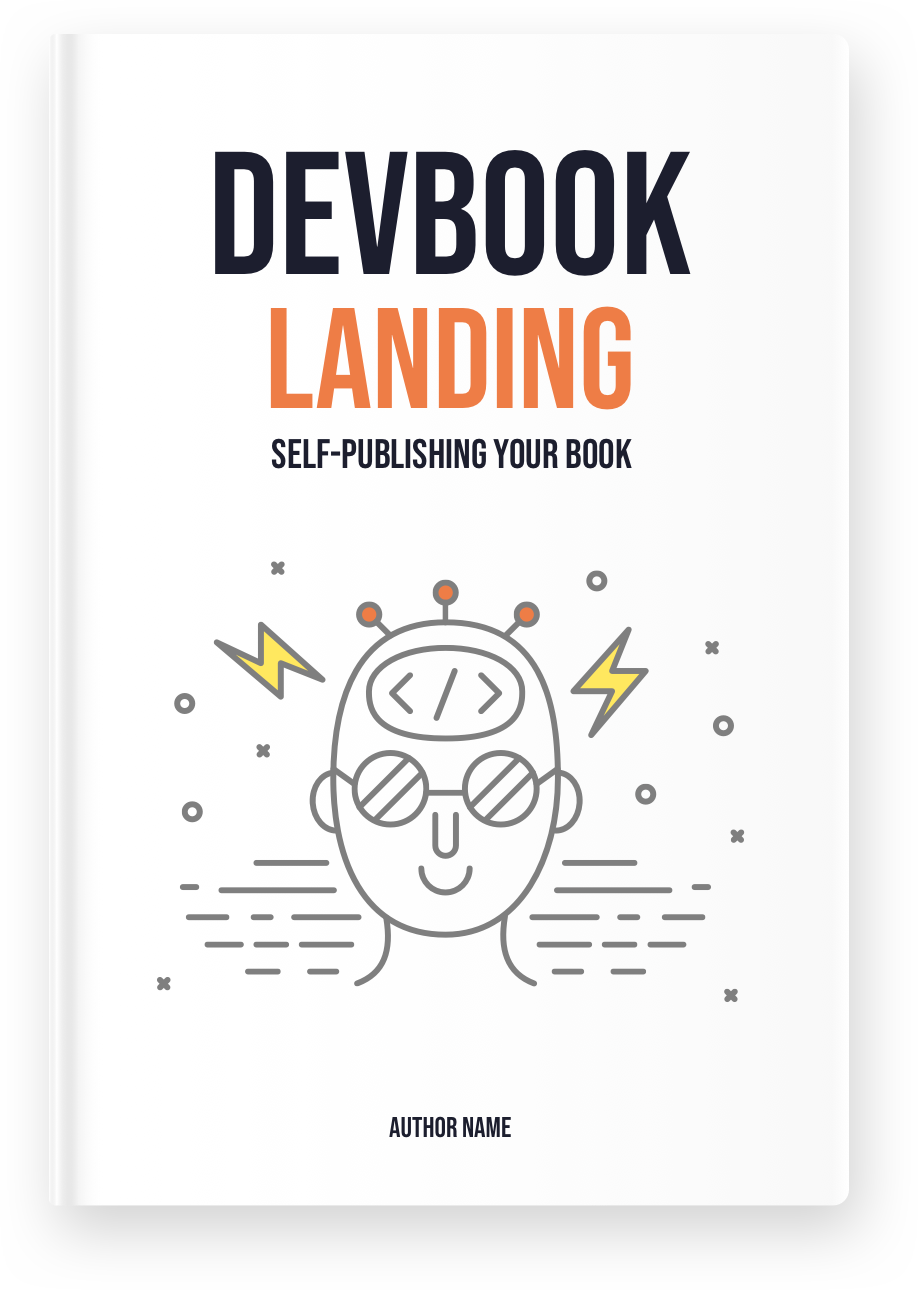
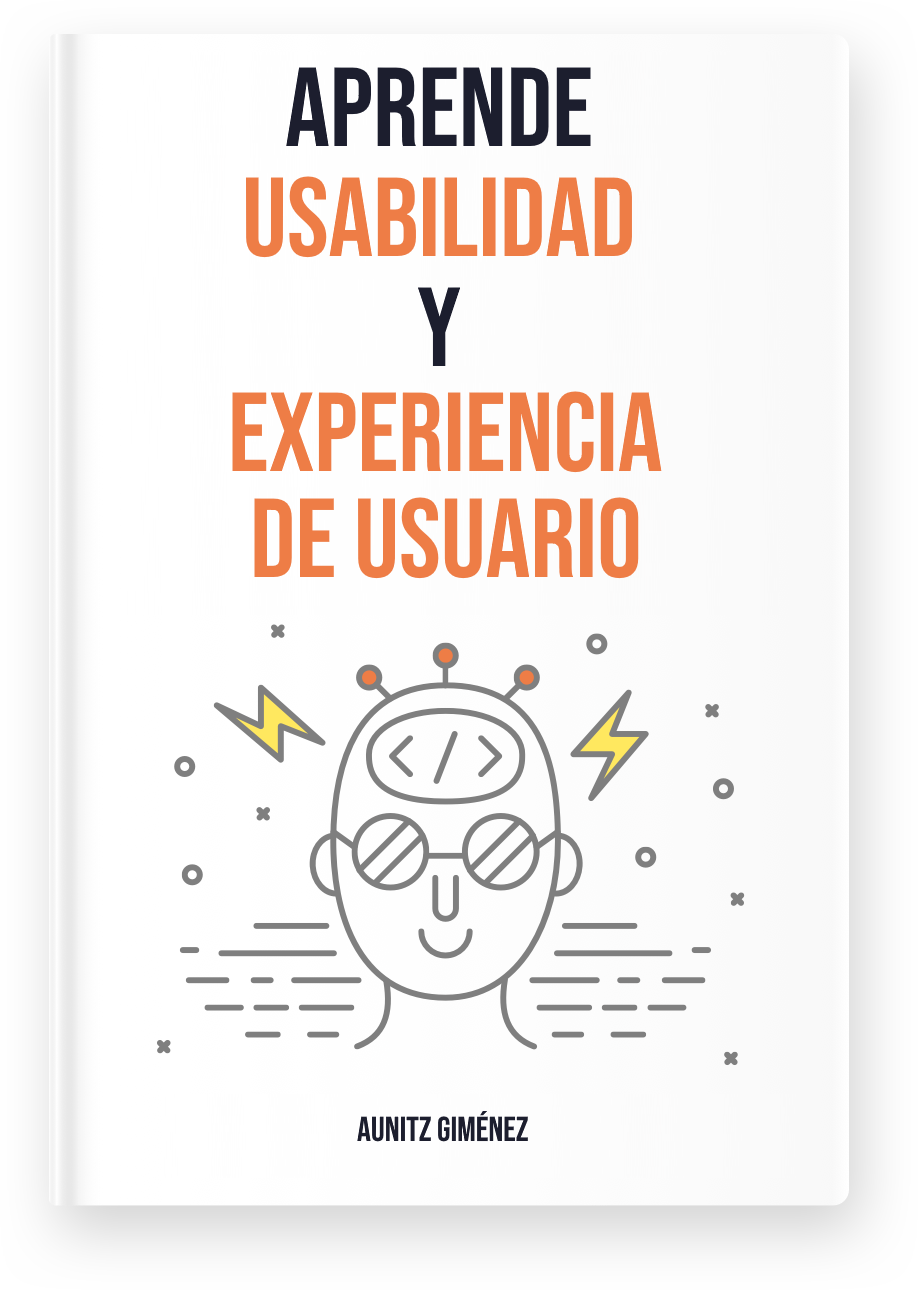
Contenidos reales de la web (primera parte)

diff --git a/index.html b/index.html
@@ -1,58 +1,57 @@
 <!DOCTYPE html>
-<html lang="en"> 
+<html lang="en">
 <head>
     <title>DevBook - Bootstrap 4 Book/eBook Landing Page Template For Developers</title>
-    
+
     <!-- Meta -->
     <meta charset="utf-8">
     <meta http-equiv="X-UA-Compatible" content="IE=edge">
     <meta name="viewport" content="width=device-width, initial-scale=1.0">
     <meta name="description" content="Bootstrap 4 Book/eBook Landing Page Template For Developers">
-    <meta name="author" content="Xiaoying Riley at 3rd Wave Media">    
-    <link rel="shortcut icon" href="favicon.ico"> 
-    
+    <meta name="author" content="Xiaoying Riley at 3rd Wave Media">
+    <link rel="shortcut icon" href="favicon.ico">
+
     <!-- Google Font -->
     <link href="https://fonts.googleapis.com/css?family=Quicksand:700|Roboto:400,400i,700&display=swap" rel="stylesheet">
-    
+
     <!-- FontAwesome JS-->
     <script defer src="assets/fontawesome/js/all.min.js"></script>
 
-    <!-- Theme CSS -->  
+    <!-- Theme CSS -->
     <link id="theme-style" rel="stylesheet" href="assets/css/theme.css">
 
-</head> 
+</head>
 
-<body>    
-    <header class="header">	    
+<body>
+    <header class="header">
         <div class="branding">
             <div class="container-fluid position-relative py-3">
                 <div class="logo-wrapper">
-	                <div class="site-logo"><a class="navbar-brand" href="index.html"><img class="logo-icon mr-2" src="assets/images/site-logo.svg" alt="logo" ><span class="logo-text">DevBook</span></a></div>    
+	                <div class="site-logo"><a class="navbar-brand" href="index.html"><img class="logo-icon mr-2" src="assets/images/site-logo.svg" alt="logo" ><span class="logo-text">DesarrolloWeb</span></a></div>
                 </div><!--//docs-logo-wrapper-->
-	        
+
             </div><!--//container-->
         </div><!--//branding-->
     </header><!--//header-->
-    
+
     <section class="hero-section">
 	    <div class="container">
 		    <div class="row">
 			    <div class="col-12 col-md-7 pt-5 mb-5 align-self-center">
 				    <div class="promo pr-md-3 pr-lg-5">
 					    <h1 class="headline mb-3">
-						    Free Book &amp; eBook <br>Landing Page Template   
+						    Aprende usabilidad y experiencia de usuario
 					    </h1><!--//headline-->
 					    <div class="subheadline mb-4">
-						    A free Bootstrap 4 template for developers and programmers who want to self-publish books. Download now and start selling your book right away!
-						    
+							Un libro eminentemente práctico para aprender los principios más importantes de la usabilidad y la experiencia de usuario.
 					    </div><!--//subheading-->
-					    
+
 					    <div class="cta-holder">
-						    <a class="btn btn-primary mr-lg-2" href="https://themes.3rdwavemedia.com/bootstrap-templates/startup/devbook-free-bootstrap-4-book-ebook-landing-page-template-for-developers/">Buy for $20</a>
-						    <a class="btn btn-secondary scrollto" href="#benefits-section">Learn More</a>
-						    
+						    <a class="btn btn-primary mr-lg-2" href="https://themes.3rdwavemedia.com/bootstrap-templates/startup/devbook-free-bootstrap-4-book-ebook-landing-page-template-for-developers/">Comprar por 15 €</a>
+						    <a class="btn btn-secondary scrollto" href="#benefits-section">Más información</a>
+
 					    </div><!--//cta-holder-->
-					    
+
 					    <div class="hero-quotes mt-5">
 						    <div id="quotes-carousel" class="quotes-carousel carousel slide carousel-fade mb-5" data-ride="carousel" data-interval="8000">
 								<ol class="carousel-indicators">
@@ -60,11 +59,11 @@
 									<li data-target="#quotes-carousel" data-slide-to="1"></li>
 									<li data-target="#quotes-carousel" data-slide-to="2"></li>
 								</ol>
-							  
+
 							    <div class="carousel-inner">
 								    <div class="carousel-item active">
 								        <blockquote class="quote p-4 theme-bg-light">
-									        "Excellent Book! Add your book reviews here consectetur adipiscing elit. Aliquam euismod nunc porta urna facilisis tempor. Praesent mauris neque, viverra quis erat vitae, auctor imperdiet nisi."     
+									        "Excellent Book! Add your book reviews here consectetur adipiscing elit. Aliquam euismod nunc porta urna facilisis tempor. Praesent mauris neque, viverra quis erat vitae, auctor imperdiet nisi."
 								        </blockquote><!--//item-->
 								        <div class="source media flex-column flex-md-row align-items-center">
 									        <img class="source-profile mr-md-3" src="assets/images/profiles/profile-1.png" alt="image" >
@@ -76,7 +75,7 @@
 								    </div><!--//carousel-item-->
 								    <div class="carousel-item">
 								        <blockquote class="quote p-4 theme-bg-light">
-									        "Highly recommended consectetur adipiscing elit. Proin et auctor dolor, sed venenatis massa. Vestibulum ullamcorper lobortis nisi non placerat praesent mauris neque"     
+									        "Después de leerlo dispondrás de herramientas y conocimientos para que tus proyectos digitales sean más fáciles de usar y resulten más atractivos para tus usuarios."
 								        </blockquote><!--//item-->
 								        <div class="source media flex-column flex-md-row align-items-center">
 									        <img class="source-profile mr-md-3" src="assets/images/profiles/profile-2.png" alt="image" >
@@ -88,7 +87,7 @@
 								    </div><!--//carousel-item-->
 								    <div class="carousel-item">
 								        <blockquote class="quote p-4 theme-bg-light">
-									        "Awesome! Lorem ipsum dolor sit amet, consectetur adipiscing elit. Aliquam euismod nunc porta urna facilisis tempor. Praesent mauris neque, viverra quis erat vitae."     
+									        "Awesome! Lorem ipsum dolor sit amet, consectetur adipiscing elit. Aliquam euismod nunc porta urna facilisis tempor. Praesent mauris neque, viverra quis erat vitae."
 								        </blockquote><!--//item-->
 								        <div class="source media flex-column flex-md-row align-items-center">
 									        <img class="source-profile mr-md-3" src="assets/images/profiles/profile-3.png" alt="image" >
@@ -100,7 +99,7 @@
 								    </div><!--//carousel-item-->
 								</div><!--//carousel-inner-->
 							</div><!--//quotes-carousel-->
-							
+
 					    </div><!--//hero-quotes-->
 				    </div><!--//promo-->
 			    </div><!--col-->
@@ -108,15 +107,15 @@
 				    <div class="book-cover-holder">
 					    <img class="img-fluid book-cover" src="assets/images/devbook-cover.png" alt="book cover" >
 					    <div class="book-badge d-inline-block shadow">
-						    New<br>Release
+						    Nueva<br>Edición
 					    </div>
 				    </div><!--//book-cover-holder-->
-				    <div class="text-center"><a class="theme-link scrollto" href="#reviews-section">See all book reviews</a></div>
+				    <div class="text-center"><a class="theme-link scrollto" href="#reviews-section">Ver todas las reseñas del libro</a></div>
 			    </div><!--col-->
 		    </div><!--//row-->
 	    </div><!--//container-->
     </section><!--//hero-section-->
-    
+
     <section id="benefits-section" class="benefits-section theme-bg-light-gradient py-5">
 	    <div class="container py-5">
 		    <h2 class="section-heading text-center mb-3">What Will You Get From This Book?</h2>
@@ -129,7 +128,7 @@
 						    <h3 class="item-heading">Build Lorem Ipsum lobortis nec mauris habitant morbi</h3>
 					    </div><!--//item-heading-->
 					    <div class="item-desc">
-						    List one of your book's benefits here. Lorem ipsum dolor sit amet, consectetur adipiscing elit. Integer blandit consequat consequat. 
+						    List one of your book's benefits here. Lorem ipsum dolor sit amet, consectetur adipiscing elit. Integer blandit consequat consequat.
 					    </div><!--//item-desc-->
 				    </div><!--//item-inner-->
 			    </div><!--//item-->
@@ -151,7 +150,7 @@
 						    <h3 class="item-heading">Discover phasellus id egestas tellus maximus</h3>
 					    </div><!--//item-heading-->
 					    <div class="item-desc">
-						    List one of your book's benefits here. Orci varius natoque penatibus et magnis dis parturient montes. 
+						    List one of your book's benefits here. Orci varius natoque penatibus et magnis dis parturient montes.
 					    </div><!--//item-desc-->
 				    </div><!--//item-inner-->
 			    </div><!--//item-->
@@ -162,7 +161,7 @@
 						    <h3 class="item-heading">Master aliquet augue ac ipsum lobortis interdum</h3>
 					    </div><!--//item-heading-->
 					    <div class="item-desc">
-						    List one of your book's benefits here. Orci varius natoque penatibus et magnis dis parturient montes. 
+						    List one of your book's benefits here. Orci varius natoque penatibus et magnis dis parturient montes.
 					    </div><!--//item-desc-->
 				    </div><!--//item-inner-->
 			    </div><!--//item-->
@@ -173,7 +172,7 @@
 						    <h3 class="item-heading">Deploy elementum mauris tincidunt tempus sagittis</h3>
 					    </div><!--//item-heading-->
 					    <div class="item-desc">
-						    List one of your book's benefits here. Orci varius natoque penatibus et magnis dis parturient montes. 
+						    List one of your book's benefits here. Orci varius natoque penatibus et magnis dis parturient montes.
 					    </div><!--//item-desc-->
 				    </div><!--//item-inner-->
 			    </div><!--//item-->
@@ -184,14 +183,14 @@
 						    <h3 class="item-heading">Become mattis est et mauris tempus non imperdiet</h3>
 					    </div><!--//item-heading-->
 					    <div class="item-desc">
-						    List one of your book's benefits here. Orci varius natoque penatibus et magnis dis parturient montes. 
+						    List one of your book's benefits here. Orci varius natoque penatibus et magnis dis parturient montes.
 					    </div><!--//item-desc-->
 				    </div><!--//item-inner-->
 			    </div><!--//item-->
 		    </div><!--//row-->
 	    </div><!--//container-->
     </section><!--//benefits-section-->
-    
+
     <section id="content-section" class="content-section">
 	    <div class="container">
 		    <div class="single-col-max mx-auto">
@@ -216,13 +215,13 @@
 						    </ul>
 						    <div class="text-center"><a class="btn btn-primary" href="https://themes.3rdwavemedia.com/bootstrap-templates/startup/devbook-free-bootstrap-4-book-ebook-landing-page-template-for-developers/">I want this book</a></div>
 					    </div><!--//key-points-->
-					    
-				    </div><!--//col-12-->   
+
+				    </div><!--//col-12-->
 			    </div><!--//row-->
 		    </div><!--//single-col-max-->
 	    </div><!--//container-->
     </section><!--//content-section-->
-    
+
     <section id="audience-section" class="audience-section py-5">
 	    <div class="container">
 		    <h2 class="section-heading text-center mb-4">Who This Book Is For</h2>
@@ -261,7 +260,7 @@
 		    </div><!--//audience-->
 	    </div><!--//container-->
     </section><!--//audience-section-->
-    
+
     <section id="form-section" class="form-section">
 	    <div class="container">
 		    <div class="lead-form-wrapper single-col-max mx-auto theme-bg-light rounded p-5">
@@ -279,7 +278,7 @@
 		    </div><!--//lead-form-wrapper-->
 	    </div><!--//container-->
     </section><!--//form-section-->
-    
+
     <section id="reviews-section" class="reviews-section py-5">
 	    <div class="container">
 		    <h2 class="section-heading text-center">Book Reviews</h2>
@@ -287,9 +286,9 @@
 		    <div class="row justify-content-center">
 			    <div class="item col-12 col-lg-4 p-3 mb-4">
 				    <div class="item-inner theme-bg-light rounded p-4">
-					    
+
 					    <blockquote class="quote">
-					        "Excellent Book! Add your book review here consectetur adipiscing elit. Aliquam euismod nunc porta urna facilisis tempor. "     
+					        "Excellent Book! Add your book review here consectetur adipiscing elit. Aliquam euismod nunc porta urna facilisis tempor. "
 				        </blockquote><!--//item-->
 				        <div class="source media flex-column flex-md-row align-items-center">
 					        <img class="source-profile mr-md-3" src="assets/images/profiles/profile-1.png" alt="image" >
@@ -304,7 +303,7 @@
 			    <div class="item col-12 col-lg-4 p-3 mb-4">
 				    <div class="item-inner theme-bg-light rounded p-4">
 					    <blockquote class="quote">
-					        "Great Book! Add your book review here consectetur adipiscing elit. Aliquam euismod nunc porta urna facilisis tempor. Praesent mauris neque."     
+					        "Great Book! Add your book review here consectetur adipiscing elit. Aliquam euismod nunc porta urna facilisis tempor. Praesent mauris neque."
 				        </blockquote><!--//item-->
 				        <div class="source media flex-column flex-md-row align-items-center">
 					        <img class="source-profile mr-md-3" src="assets/images/profiles/profile-2.png" alt="image" >
@@ -319,7 +318,7 @@
 			    <div class="item col-12 col-lg-4 p-3 mb-4">
 				    <div class="item-inner theme-bg-light rounded p-4">
 					    <blockquote class="quote">
-					        "Excellent Book! Add your book review here consectetur adipiscing elit. Pellentesque ac leo turpis. Phasellus imperdiet id ligula tempor imperdiet."     
+					        "Excellent Book! Add your book review here consectetur adipiscing elit. Pellentesque ac leo turpis. Phasellus imperdiet id ligula tempor imperdiet."
 				        </blockquote><!--//item-->
 				        <div class="source media flex-column flex-md-row align-items-center">
 					        <img class="source-profile mr-md-3" src="assets/images/profiles/profile-3.png" alt="image" >
@@ -334,7 +333,7 @@
 			    <div class="item col-12 col-lg-4 p-3 mb-4">
 				    <div class="item-inner theme-bg-light rounded p-4">
 					    <blockquote class="quote">
-					        "Another book review here consectetur adipiscing elit. Pellentesque ac leo turpis. Phasellus imperdiet id ligula tempor imperdiet."     
+					        "Another book review here consectetur adipiscing elit. Pellentesque ac leo turpis. Phasellus imperdiet id ligula tempor imperdiet."
 				        </blockquote><!--//item-->
 				        <div class="source media flex-column flex-md-row align-items-center">
 					        <img class="source-profile mr-md-3" src="assets/images/profiles/profile-4.png" alt="image" >
@@ -349,7 +348,7 @@
 			    <div class="item col-12 col-lg-4 p-3 mb-4">
 				    <div class="item-inner theme-bg-light rounded p-4">
 					    <blockquote class="quote">
-					        "Another book review here consectetur adipiscing elit. Pellentesque ac leo turpis. Phasellus imperdiet id ligula tempor imperdiet."     
+					        "Another book review here consectetur adipiscing elit. Pellentesque ac leo turpis. Phasellus imperdiet id ligula tempor imperdiet."
 				        </blockquote><!--//item-->
 				        <div class="source media flex-column flex-md-row align-items-center">
 					        <img class="source-profile mr-md-3" src="assets/images/profiles/profile-5.png" alt="image" >
@@ -367,7 +366,7 @@
 		    </div>
 	    </div><!--//container-->
     </section><!--//reviews-section-->
-    
+
     <section id="author-section" class="author-section section theme-bg-primary py-5">
 	    <div class="container py-3">
 		    <div class="author-profile text-center mb-5">
@@ -381,19 +380,19 @@
 			        <h5 class="text-white mb-4">Follow Author</h5>
 				    <ul class="social-list list-unstyled">
 					    <li class="list-inline-item"><a href="https://twitter.com/3rdwave_themes"><i class="fab fa-twitter"></i></a></li>
-					    <li class="list-inline-item"><a href="https://github.com/xriley"><i class="fab fa-github-alt"></i></a></li> 
+					    <li class="list-inline-item"><a href="https://github.com/xriley"><i class="fab fa-github-alt"></i></a></li>
 			            <li class="list-inline-item"><a href="https://medium.com/@3rdwave_themes"><i class="fab fa-medium-m"></i></a></li>
-			            
+
 			            <li class="list-inline-item"><a href="https://themes.3rdwavemedia.com/"><i class="fas fa-globe-europe"></i></a></li>
 			        </ul><!--//social-list-->
 			    </div><!--//author-links-->
-			    
+
 		    </div><!--//author-bio-->
-		    
+
 	    </div><!--//container-->
     </section><!--//author-section-->
-    
-    
+
+
 
     <footer class="footer">
 
@@ -401,20 +400,19 @@
 
 	        <!--/* This template is free as long as you keep the footer attribution link. If you'd like to use the template without the attribution link, you can buy the commercial license via our website: themes.3rdwavemedia.com Thank you for your support. :) */-->
             <small class="copyright">Designed with <i class="fas fa-heart" style="color: #fb866a;"></i> by <a class="theme-link" href="http://themes.3rdwavemedia.com" target="_blank">Xiaoying Riley</a> for developers</small>
- 
+
 	    </div>
-	    
+
     </footer>
-       
-    <!-- Javascript -->          
+
+    <!-- Javascript -->
     <script src="assets/plugins/jquery-3.4.1.min.js"></script>
     <script src="assets/plugins/popper.min.js"></script>
-    <script src="assets/plugins/bootstrap/js/bootstrap.min.js"></script>  
-    <script src="assets/plugins/jquery.scrollTo.min.js"></script>  
-    <script src="assets/plugins/back-to-top.js"></script>  
-    
+    <script src="assets/plugins/bootstrap/js/bootstrap.min.js"></script>
+    <script src="assets/plugins/jquery.scrollTo.min.js"></script>
+    <script src="assets/plugins/back-to-top.js"></script>
+
     <script src="assets/js/main.js"></script>
 
 </body>
-</html> 
-
+</html>
